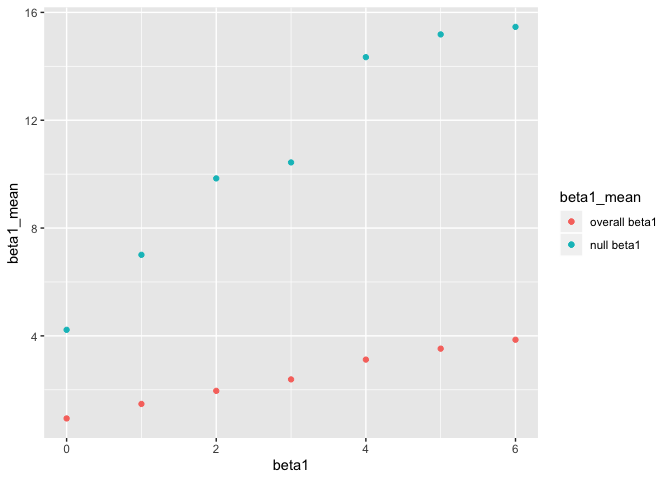
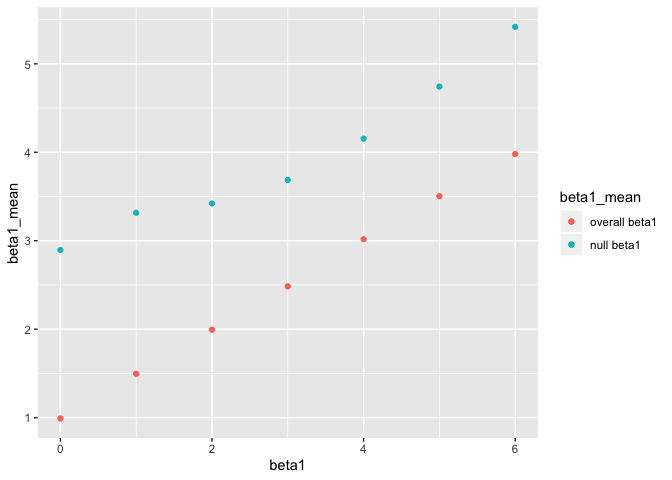
actual final commit: use this to grade

diff --git a/p8105_hw5_1_kzw2102.md b/p8105_hw5_1_kzw2102.md
@@ -1,6 +1,7 @@
 HW 5 updated
 ================
 Kelly Wang, kzw2102
+11/10/19
 
 ### Problem 1
 
@@ -327,7 +328,7 @@ sim_regression = function(n=30, beta0 = 2, beta1=0) {
   
   sim_data = tibble(
     x = rnorm(n, mean = 0, sd=1),
-    y = beta0 + beta1 * x + rnorm(n, 0, 50)
+    y = beta0 + beta1 * x + rnorm(n, 0, sqrt(50))
   )
   
   ls_fit = lm(y ~ x, data = sim_data) %>% 
@@ -357,30 +358,30 @@ sim_results
     ## # A tibble: 140,000 x 4
     ##    beta1 term        estimate p.value
     ##    <int> <chr>          <dbl>   <dbl>
-    ##  1     0 (Intercept)    1.03   0.906 
-    ##  2     0 x              5.60   0.624 
-    ##  3     0 (Intercept)   -0.263  0.978 
-    ##  4     0 x             26.0    0.0182
-    ##  5     0 (Intercept)    3.63   0.732 
-    ##  6     0 x            -10.4    0.385 
-    ##  7     0 (Intercept)   -4.92   0.503 
-    ##  8     0 x             -4.31   0.539 
-    ##  9     0 (Intercept)   12.9    0.289 
-    ## 10     0 x             -1.14   0.943 
+    ##  1     0 (Intercept)    1.86   0.139 
+    ##  2     0 x              0.792  0.624 
+    ##  3     0 (Intercept)    1.68   0.215 
+    ##  4     0 x              3.68   0.0182
+    ##  5     0 (Intercept)    2.23   0.144 
+    ##  6     0 x             -1.47   0.385 
+    ##  7     0 (Intercept)    1.02   0.329 
+    ##  8     0 x             -0.610  0.539 
+    ##  9     0 (Intercept)    3.54   0.0447
+    ## 10     0 x             -0.161  0.943 
     ## # … with 139,990 more rows
 
 ``` r
 head(sim_results) %>% knitr::kable()
 ```
 
-| beta1 | term        |     estimate |   p.value |
-| ----: | :---------- | -----------: | --------: |
-|     0 | (Intercept) |    1.0264403 | 0.9063299 |
-|     0 | x           |    5.6027699 | 0.6236058 |
-|     0 | (Intercept) |  \-0.2625772 | 0.9778402 |
-|     0 | x           |   26.0043472 | 0.0181979 |
-|     0 | (Intercept) |    3.6292801 | 0.7321273 |
-|     0 | x           | \-10.4212173 | 0.3849481 |
+| beta1 | term        |    estimate |   p.value |
+| ----: | :---------- | ----------: | --------: |
+|     0 | (Intercept) |   1.8623179 | 0.1388877 |
+|     0 | x           |   0.7923513 | 0.6236058 |
+|     0 | (Intercept) |   1.6800233 | 0.2152550 |
+|     0 | x           |   3.6775701 | 0.0181979 |
+|     0 | (Intercept) |   2.2304150 | 0.1441838 |
+|     0 | x           | \-1.4737827 | 0.3849481 |
 
 Here we can see the first few lines of the total 140000 rows in our
 dataset. We will be using this simulated dataset and plot the
